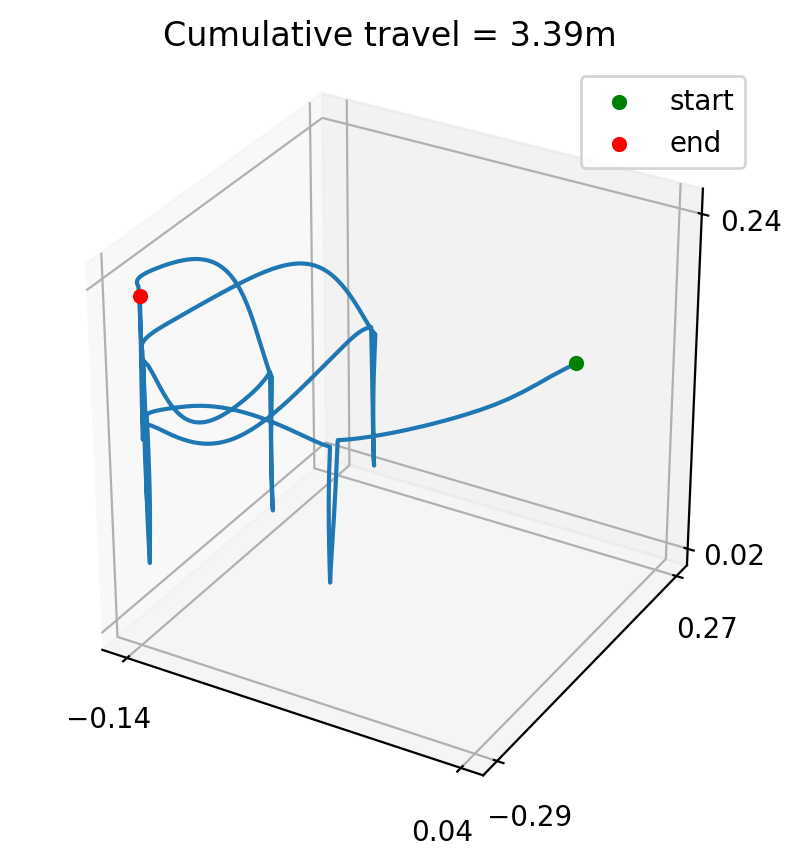
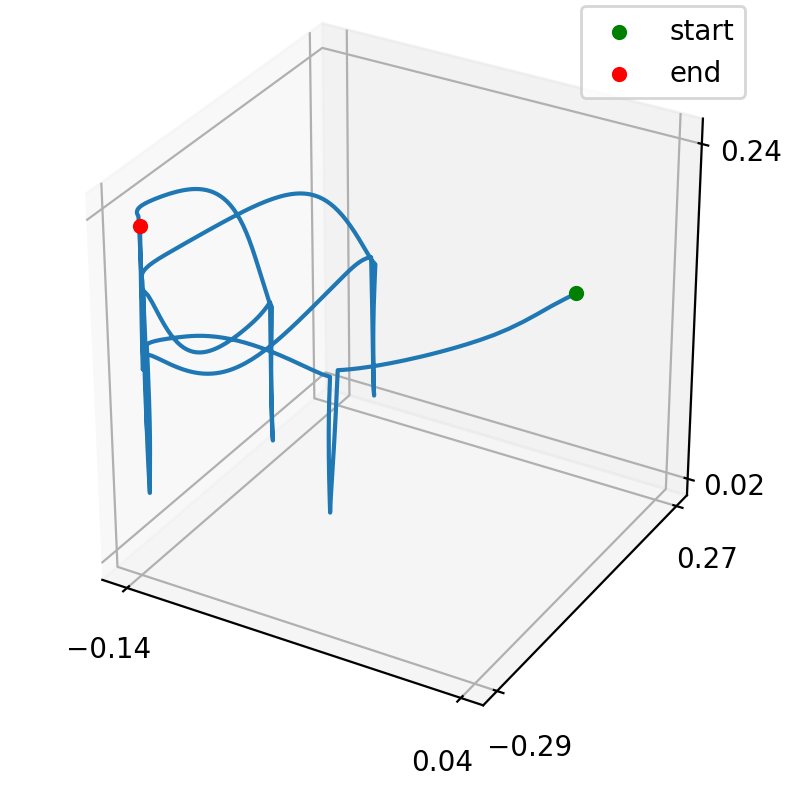
EE trajectories

diff --git a/index.html b/index.html
@@ -326,11 +326,12 @@
   <div class="container is-max-widescreen">
 
     <div class="rows">
-      <h2 class="title is-3">Efficiency Evaluation</h2>
+      <h2 class="title is-3">End Effector Trajectories in Cubes Stacking</h2>
       
       <p class="content has-text-justified">
         We compare NARRATE against <a href="https://code-as-policies.github.io/">Code as Policies</a>, and <a href="https://voxposer.github.io/">VoxPoser</a>. We find that defining the constrained MPC program leads to 
         the most efficient execution of contact-rich tasks (where the cm-level trajectories of the gripper fingers matters for collision avoidance).
+        In the figures, we show an example of the end effector trajectories for the task of stacking cubes using the three methods.
       </p>
       <br>
     </div>
